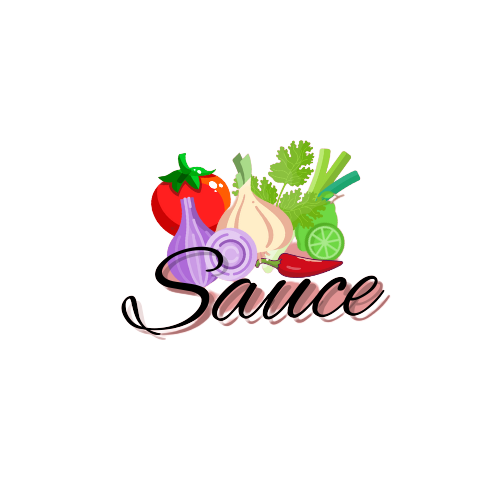
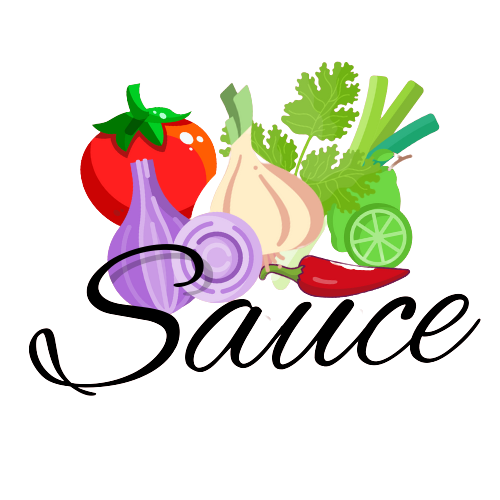
modify heigth sauce.png and style.css

Changed region(s): [[0.06, 0.12, 0.96, 0.81]]

diff --git a/views/style/index.css b/views/style/index.css
@@ -1,8 +1,9 @@
-*{
+/* *{
     margin: 0;
-}
+} */
 
 .container {
+    border: 1px solid;
 
     display: flex;
     
@@ -15,27 +16,36 @@
 
 /* header{
     border: 1px solid;
-} */
-
-nav{
-    width: 100vw;
 
     display: flex;
+} */
 
+#navbar{
+    width: 80vw;
+    height: 25vh;
+
+    display: flex;
     align-items: center;
     justify-content: center;
 
     margin-top: 20px;
+    background-color: #e49595;
+
+    position: relative;
+    
 
 
 }
 
-#navbar{
+#logo{    
+    position: absolute;
+    left: 3rem;
+}
+
+#logo > img {
     height: 25vh;
+    width: 150px;
 
-    width: 90vw;
-
-    background-color: #e49595;
 }
 
 #nav-menu{
@@ -48,15 +58,7 @@ nav{
     list-style: none;
 }
 
-#logo > img {
-    height: 200px;
-    width: 200px;
 
-    position: absolute;
-
-    left: 70px;
-    top: -10px;
-}
 
 #nav-menu li a{
     color: black;
